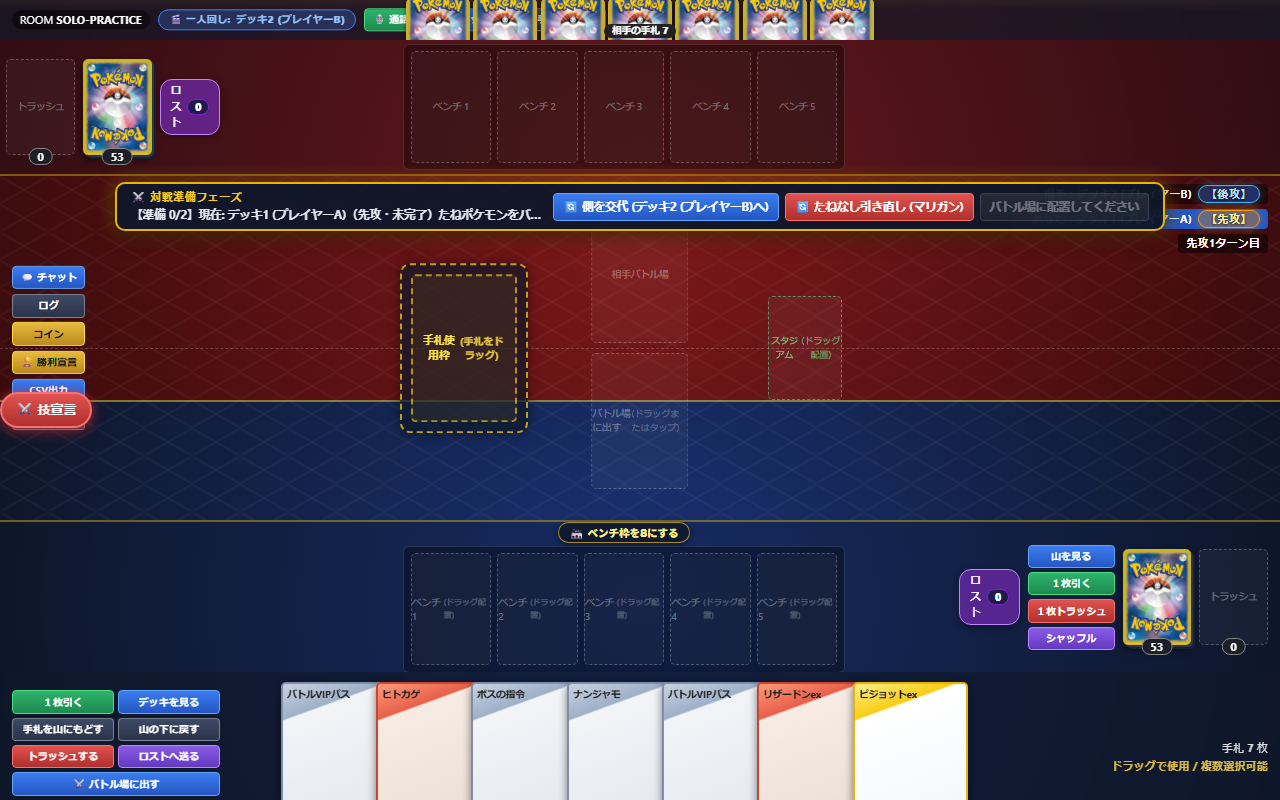
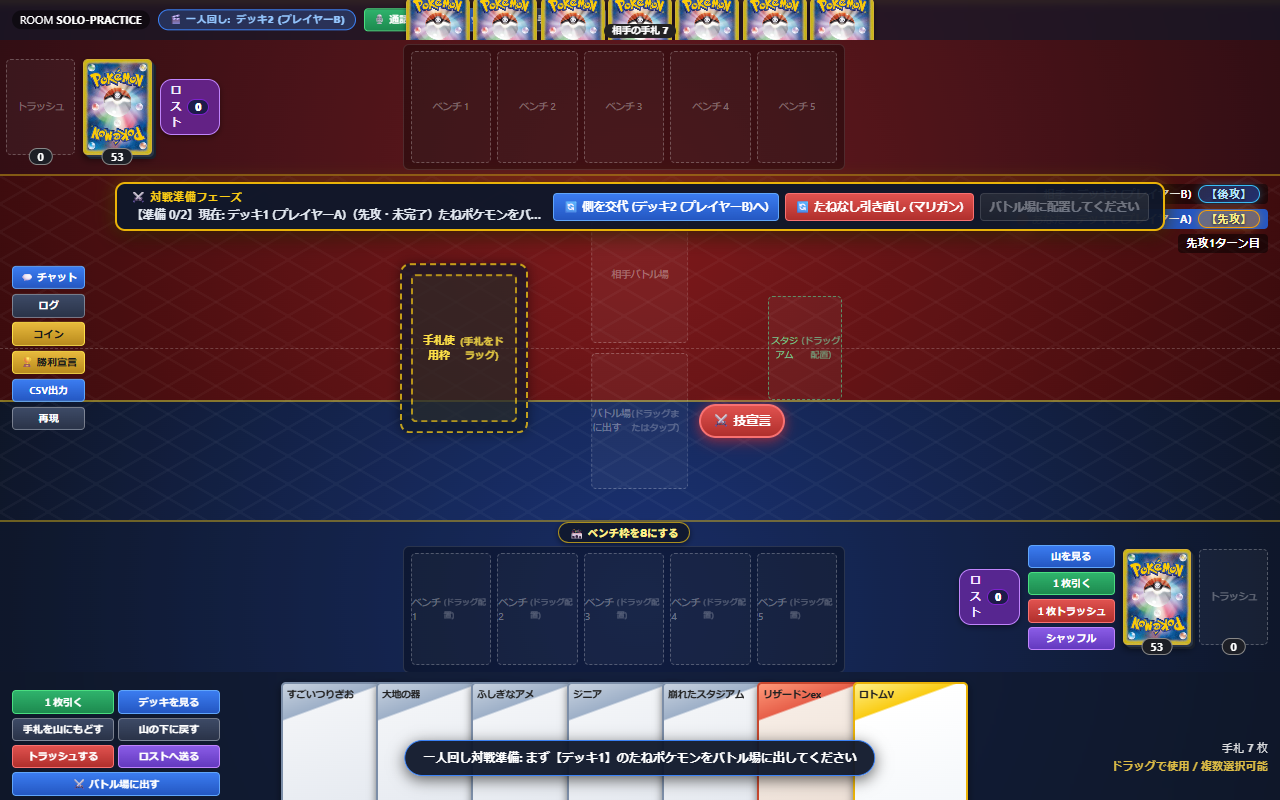
fix: 技宣言ボタンが左端メニューボタン群と被っていた問題を修正し、自分バトル場のすぐ右横へ配置を最適化 (v17.3)

diff --git a/src/css/style.css b/src/css/style.css
@@ -7,6 +7,7 @@
   --card-r: 0.716;              /* カード縦横比 (63x88mm) */
   --bench-h: calc(var(--u) * 14);
   --active-h: calc(var(--u) * 17);
+  --active-w: calc(var(--active-h) * var(--card-r));
   --pile-h: calc(var(--u) * 12);
   --prize-h: calc(var(--u) * 6.3);
   --hand-h: calc(var(--u) * 20);
@@ -2155,6 +2156,7 @@ body.menu-open .sp-sheet {
   :root {
     --bench-h: min(7.6vh, 15vw);
     --active-h: min(11.2vh, 23.5vw);
+    --active-w: calc(var(--active-h) * var(--card-r));
     --pile-h: min(7.2vh, 14.5vw);
     --prize-h: min(4.8vh, 9.6vw);
     --hand-h: min(14.5vh, 29vw);
@@ -5276,13 +5278,14 @@ body.menu-open .sp-sheet {
    ============================================================================= */
 .btn-declare-attack {
   position: absolute;
-  top: calc(50% + var(--u) * 0.8 + var(--active-h) * 0.28);
+  top: calc(50% + var(--u) * 0.6 + var(--active-h) * 0.5);
   left: calc(50% + var(--active-w) * 0.5 + 10px);
-  z-index: 18;
+  transform: translateY(-50%);
+  z-index: 25;
   white-space: nowrap;
   font-weight: 800;
-  padding: 6px 14px;
-  font-size: 13px;
+  padding: 6px 12px;
+  font-size: 12.5px;
   border-radius: 9999px;
   background: linear-gradient(135deg, #ef4444 0%, #dc2626 50%, #b91c1c 100%);
   color: #ffffff;
@@ -5296,21 +5299,22 @@ body.menu-open .sp-sheet {
   user-select: none;
 }
 .btn-declare-attack:hover {
-  transform: translateY(-2px) scale(1.04);
+  transform: translateY(-50%) scale(1.06);
   box-shadow: 0 6px 18px rgba(220, 38, 38, 0.6), 0 0 16px rgba(239, 68, 68, 0.5);
   filter: brightness(1.1);
 }
 .btn-declare-attack:active {
-  transform: translateY(1px) scale(0.97);
+  transform: translateY(-50%) scale(0.96);
 }
 
-@media (max-width: 768px) {
+@media (max-width: 768px), (orientation: portrait) {
   .btn-declare-attack {
-    left: auto;
-    right: 8px;
-    top: calc(50% + 20px);
-    padding: 5px 10px;
+    top: calc(50% + 0.4vh + var(--active-h) * 0.5);
+    left: calc(50% + var(--active-w) * 0.5 + 6px);
+    transform: translateY(-50%);
+    padding: 4px 8px;
     font-size: 11px;
+    gap: 3px;
   }
 }
 
